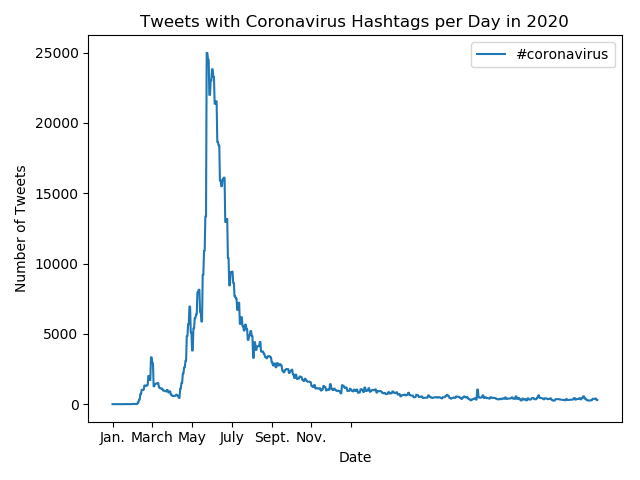
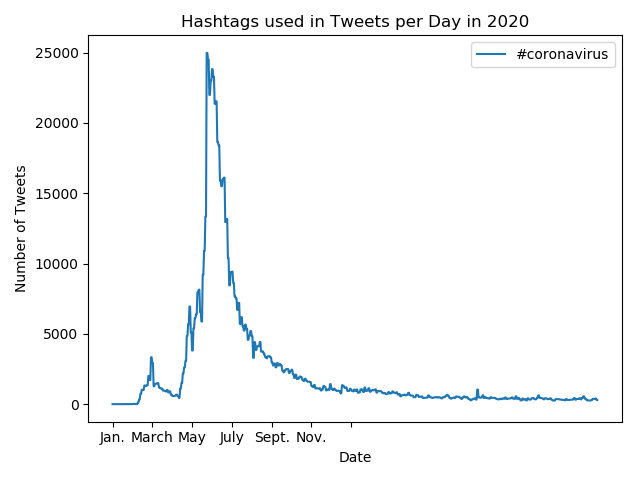
fixing alternative png again

Changed region(s): [[0.2188, 0.0312, 0.9062, 0.0625]]

diff --git a/src/alternative_reduce.py b/src/alternative_reduce.py
@@ -36,7 +36,7 @@ dates = [0, 60, 120, 180, 240, 300, 360]
 months = ['Jan.', "March", "May", "July", "Sept.", "Nov."]
 plt.xticks(dates, months)
 plt.xlabel('Date')
-plt.title("Tweets with Coronavirus Hashtags per Day in 2020")
+plt.title("Hashtags used in Tweets per Day in 2020")
 plt.legend()
 plt.tight_layout()
 plt.savefig('alternative')
